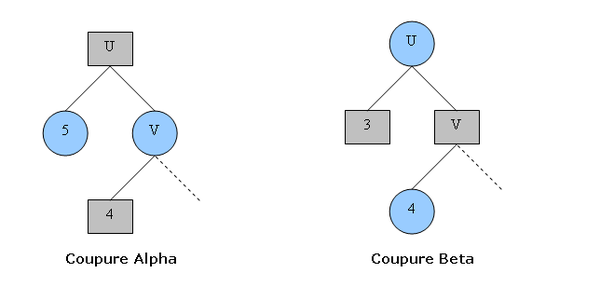
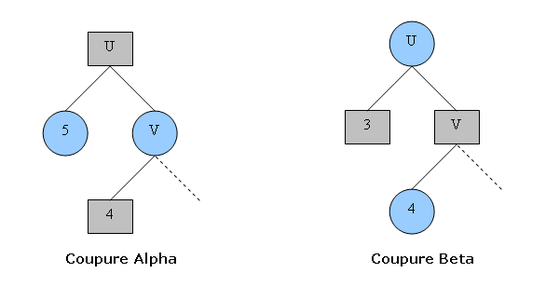
Corrigé lien vers une image qui était faux encore grâce à un c/c de maxence; j'en profite pour centrer l'image aussi

diff --git a/final/rapport/jeux.tex b/final/rapport/jeux.tex
@@ -119,7 +119,7 @@ compte qu'il ne pourra pas faire mieux.
 Dans l'exemple suivant, où les nœuds en bleus sont ceux où l'on doit prendre
 le minimum, et ceux en gris le maximum :
 \begin{center}
-  \includegraphics[width=300px]{coupures_alpha-beta.png}
+  \includegraphics[width=300px]{../../jeux/coupures_alpha-beta.png}
 \end{center}
 On se rend bien compte qu'on n'a pas besoin de parcourir les nœuds suivant,
 car on prend le maximum des minimums, ou l'inverse.
